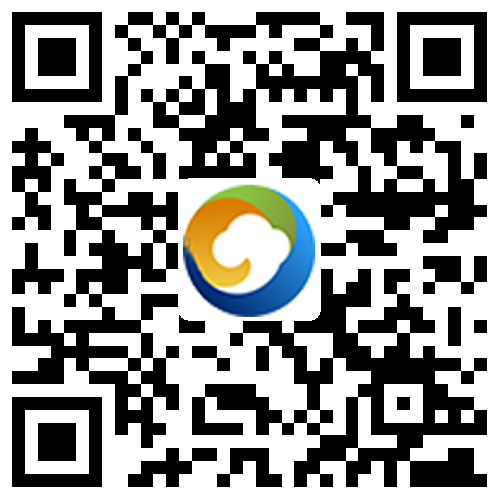
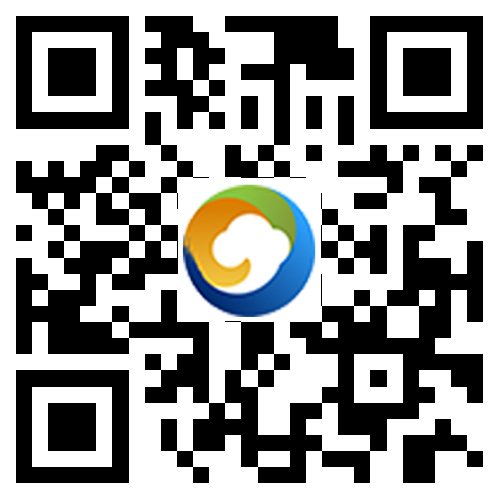
下载app二维码

diff --git a/web/src/ccc/app/views/index.html b/web/src/ccc/app/views/index.html
@@ -54,7 +54,7 @@
                 document.location.href = "http://a.app.qq.com/o/simple.jsp?pkgname=com.creditcloud.xinyi";
             }
             else{
-                document.location.href = "http://www.718bank.com/ccc/app/zc.apk";
+                document.location.href = "http://www.718zc.com/ccc/app/zc.apk";
             }
         }
     </script>
@@ -70,7 +70,7 @@
 <a href="javascript:void(0)" onclick="goAndroidDownload()" class="download-link download-link-android">用户端Android版</a>
 
 <footer class="download-footer">
-    <div class="download-copyright">&copy; 新毅网络www.718bank.com</div>
+    <div class="download-copyright">&copy; 新毅网络www.718zc.com</div>
 </footer>
     
 
